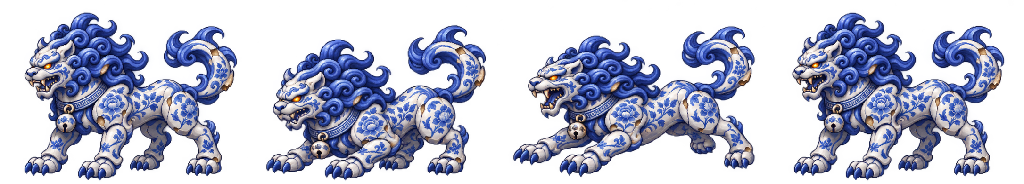
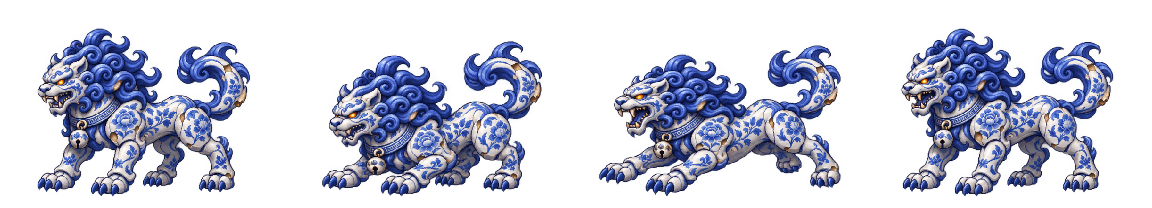
feat: add bridge repair armor and grounded sprite alignment

diff --git a/08-antique-night/game.js b/08-antique-night/game.js
@@ -1,34 +1,34 @@
 'use strict';
 const canvas=document.getElementById('game'),ctx=canvas.getContext('2d'),overlay=document.getElementById('overlay'),title=document.getElementById('title'),story=document.getElementById('story'),go=document.getElementById('go'),objective=document.getElementById('objective');
-const image=(url)=>{let i=new Image;i.src=url;return i};const bg=image('assets/porcelain.webp'), hero=image('assets/hero.png'), beast=image('assets/beast.png'), painter=image('assets/painter.png'),shopArt=image('assets/shop.webp'),platformArt=image('assets/platform.png'),beastWalk=image('assets/beast-walk.png'),heroRun=image('assets/hero-run.png'),painterAttack=image('assets/painter-attack.png'),beastAttack=image('assets/beast-attack.png'),heroAttack=image('assets/hero-attack.png'),customer=image('assets/customer.png'),heroJump=image('assets/hero-jump.png'),heroIdle=image('assets/hero-idle.png'),heroHurt=image('assets/hero-hurt.png'),heroDodge=image('assets/hero-dodge.png'),branches=image('assets/branches.png'),broken=image('assets/broken.png'),fishArt=image('assets/fish.png');const keys={},taps={};let gpPrev=[];
+const image=(url)=>{let i=new Image;i.src=url;return i};const bg=image('assets/porcelain.webp'), hero=image('assets/hero.png'), beast=image('assets/beast.png'), painter=image('assets/painter.png'),shopArt=image('assets/shop.webp'),platformArt=image('assets/platform.png'),beastWalk=image('assets/beast-walk.png'),heroRun=image('assets/hero-run.png'),painterAttack=image('assets/painter-attack.png'),beastAttack=image('assets/beast-attack.png'),heroAttack=image('assets/hero-attack.png'),customer=image('assets/customer.png'),heroJump=image('assets/hero-jump.png'),heroIdle=image('assets/hero-idle.png'),heroHurt=image('assets/hero-hurt.png'),heroDodge=image('assets/hero-dodge.png'),branches=image('assets/branches.png'),broken=image('assets/broken.png'),fishArt=image('assets/fish.png'),bridgeBroken=image('assets/bridge-broken.png'),bridgeFixed=image('assets/bridge-repaired.png'),bridgeShard=image('assets/bridge-shard.png');const keys={},taps={};let gpPrev=[];
 const map={a:'left',ArrowLeft:'left',d:'right',ArrowRight:'right',w:'jump',ArrowUp:'jump',' ':'jump',j:'attack',k:'heavy',Shift:'dash',e:'interact',m:'mute',n:'new',Enter:'confirm',Escape:'pause'};
 function inputKey(e){return e.key.length===1?e.key.toLowerCase():e.key}
 window.addEventListener('keydown',e=>{if(typeof GameAudio!=='undefined')GameAudio.unlock();let k=map[inputKey(e)];if(k){e.preventDefault();if(!keys[k])taps[k]=true;keys[k]=true}});window.addEventListener('keyup',e=>{let k=map[inputKey(e)];if(k){e.preventDefault();keys[k]=false}});window.addEventListener('blur',()=>{for(let k in keys)keys[k]=false;for(let k in taps)delete taps[k]});
-let mode='title',time=0,cam=0,fx=[],projectiles=[],notice='',noticeTime=0,dialogue=0,fragments=0,checkpoint=0,repairStep=0,boss=null,enemies=[],fish=[],shards=[],player;
-const floors=[{x:0,y:446,w:700},{x:770,y:446,w:570},{x:1410,y:446,w:490},{x:1980,y:446,w:610},{x:2670,y:446,w:950}],ledges=[{x:525,y:350,w:125},{x:935,y:350,w:145},{x:1510,y:345,w:130},{x:2115,y:340,w:130},{x:2440,y:360,w:115}],worldEnd=3620;
+let mode='title',time=0,cam=0,fx=[],projectiles=[],notice='',noticeTime=0,dialogue=0,fragments=0,checkpoint=0,repairStep=0,bridgeDone=false,bridgeProgress=0,boss=null,enemies=[],fish=[],shards=[],player;
+const floors=[{x:0,y:446,w:700},{x:930,y:446,w:410},{x:1410,y:446,w:490},{x:1980,y:446,w:610},{x:2670,y:446,w:950}],ledges=[{x:525,y:350,w:125},{x:935,y:350,w:145},{x:1510,y:345,w:130},{x:2115,y:340,w:130},{x:2440,y:360,w:115}],worldEnd=3620;
 function popup(s,d=160){notice=s;noticeTime=d}function show(t,s,b){title.textContent=t;story.innerHTML=s;go.textContent=b;overlay.classList.remove('hidden')}
 function playerAt(x){return {x,y:365,vy:0,vx:0,w:38,h:78,hp:8,max:8,facing:1,ground:false,inv:0,dash:0,attack:0,heavy:false,cool:0,land:0}}
-function init(){GameAudio.setScene('shop');player=playerAt(90);mode='shop';cam=0;fragments=0;checkpoint=0;repairStep=0;dialogue=0;fx=[];projectiles=[];enemies=[];shards=[];overlay.classList.add('hidden');objective.textContent='任务：走近客人，按 E 对话';popup('雨夜 · 来客',130)}
+function init(){GameAudio.setScene('shop');player=playerAt(90);mode='shop';cam=0;fragments=0;checkpoint=0;repairStep=0;bridgeDone=false;bridgeProgress=0;dialogue=0;fx=[];projectiles=[];enemies=[];shards=[];overlay.classList.add('hidden');objective.textContent='任务：走近客人，按 E 对话';popup('雨夜 · 来客',130)}
 const newgame=document.getElementById('newgame');let pendingSave=AntiqueSave.load(),newRequested=false;
-function saveProgress(){if(!['shop','world','return','repair','win'].includes(mode))return;AntiqueSave.save({stage:mode,shards:[0,1,2].map(i=>!!shards[i]?.taken),checkpoint:checkpoint?1:0,repairStep:Math.min(2,repairStep),dialogue:dialogue?1:0})}
-function restoreGame(saved){init();dialogue=saved.dialogue;checkpoint=saved.checkpoint;shards=saved.shards.map(taken=>({taken}));if(saved.stage==='world'){enterWorld(true)}else if(['return','repair','win'].includes(saved.stage)){mode='return';player=playerAt(570);objective.textContent='回到店里，走近青花瓶按 E 修复';if(saved.stage==='repair'){mode='repair';repairStep=saved.repairStep;objective.textContent='修复青花瓶：指针落入金色区时按 E 或手柄 A'}if(saved.stage==='win'){mode='win';show('一幅未完成的山水','青花瓶已经修复。','再玩一次')}}else if(dialogue){objective.textContent='走近柜台上的青花瓶，按 E 检查';saveProgress()}}
+function saveProgress(){if(!['shop','world','return','repair','win'].includes(mode))return;AntiqueSave.save({stage:mode,shards:[0,1,2].map(i=>!!shards[i]?.taken),checkpoint:checkpoint?1:0,repairStep:Math.min(2,repairStep),dialogue:dialogue?1:0,bridge:bridgeDone})}
+function restoreGame(saved){init();dialogue=saved.dialogue;checkpoint=saved.checkpoint;bridgeDone=!!saved.bridge;shards=saved.shards.map(taken=>({taken}));if(saved.stage==='world'){enterWorld(true)}else if(['return','repair','win'].includes(saved.stage)){mode='return';player=playerAt(570);objective.textContent='回到店里，走近青花瓶按 E 修复';if(saved.stage==='repair'){mode='repair';repairStep=saved.repairStep;objective.textContent='修复青花瓶：指针落入金色区时按 E 或手柄 A'}if(saved.stage==='win'){mode='win';show('一幅未完成的山水','青花瓶已经修复。','再玩一次')}}else if(dialogue){objective.textContent='走近柜台上的青花瓶，按 E 检查';saveProgress()}}
 if(pendingSave&&pendingSave.stage!=='win'){go.textContent='继续游戏';if(newgame){newgame.style.display='inline-block';newgame.textContent='重新开始（N / Y）'}}
 if(newgame)newgame.onclick=()=>{if(!pendingSave)return;if(!newRequested){newRequested=true;newgame.textContent='再次按 N / Y 确认覆盖';return}AntiqueSave.clear();pendingSave=null;newRequested=false;newgame.style.display='none';GameAudio.unlock();init();saveProgress()};
 go.onclick=()=>{GameAudio.unlock();if(mode==='title'){let saved=pendingSave;pendingSave=null;newRequested=false;if(newgame)newgame.style.display='none';if(saved&&saved.stage!=='win')restoreGame(saved);else{init();saveProgress()}}else if(mode==='win'){pendingSave=null;AntiqueSave.clear();init();saveProgress()}else if(mode==='dead'){enterWorld(true)}else if(mode==='pause'){mode=window.lastMode;GameAudio.resume();overlay.classList.add('hidden')}};
-function enterWorld(retry=false){GameAudio.setScene('world');const saved=retry?shards.map(s=>s.taken):[false,false,false];mode='world';overlay.classList.add('hidden');player=playerAt(retry&&checkpoint?1980:60);cam=0;projectiles=[];fx=[];shards=[{x:1040,y:315,taken:!!saved[0]},{x:1600,y:305,taken:!!saved[1]},{x:2475,y:320,taken:!!saved[2]}];fragments=shards.filter(s=>s.taken).length;enemies=[{x:400,hp:3,type:0},{x:1120,hp:3,type:0},{x:1750,hp:4,type:1},{x:2260,hp:4,type:1}].map(e=>({...e,y:404,dir:-1,cd:0,stun:0,alive:true}));if(checkpoint)enemies.forEach(e=>{if(e.x<1900)e.alive=false});fish=[{x:1260,base:1260,y:328,hp:3,alive:true,combatHeight:35,stun:0,dir:-1},{x:2400,base:2400,y:305,hp:3,alive:true,combatHeight:35,stun:0,dir:-1}];boss={x:3300,y:355,hp:28,max:28,cd:110,stun:0,alive:true,phase:0};objective.textContent='寻找三片青花碎片，深入瓶中的画卷';popup('瓶中世界 · 青花山水',160);saveProgress()}
+function enterWorld(retry=false){GameAudio.setScene('world');const saved=retry?shards.map(s=>s.taken):[false,false,false];mode='world';overlay.classList.add('hidden');player=playerAt(retry&&checkpoint?1980:60);cam=0;projectiles=[];fx=[];shards=[{x:1040,y:315,taken:!!saved[0]},{x:1600,y:305,taken:!!saved[1]},{x:2475,y:320,taken:!!saved[2]}];fragments=shards.filter(s=>s.taken).length;enemies=[{x:400,hp:3,type:0},{x:1120,hp:3,type:0},{x:1750,hp:4,type:1},{x:2260,hp:4,type:1}].map(e=>({...e,y:404,dir:-1,cd:0,stun:0,alive:true,armor:e.type?2:0}));if(checkpoint)enemies.forEach(e=>{if(e.x<1900)e.alive=false});fish=[{x:1260,base:1260,y:328,hp:3,alive:true,combatHeight:35,stun:0,dir:-1},{x:2400,base:2400,y:305,hp:3,alive:true,combatHeight:35,stun:0,dir:-1}];boss={x:3300,y:355,hp:28,max:28,cd:110,stun:0,alive:true,phase:0};objective.textContent='寻找三片青花碎片，深入瓶中的画卷';popup('瓶中世界 · 青花山水',160);saveProgress()}
 function interact(){GameAudio.play('interact');if(mode==='shop'){if(dialogue===0&&Math.abs(player.x-817)<90){dialogue=1;popup('客人：这瓶子每晚都传来水声……请你看看。',240);objective.textContent='走近柜台上的青花瓶，按 E 检查';saveProgress()}else if(dialogue===1&&Math.abs(player.x-665)<90){enterWorld()}}else if(mode==='return'&&Math.abs(player.x-665)<90){mode='repair';repairStep=0;objective.textContent='修复青花瓶：指针落入金色区时按 E 或手柄 A';popup('对准裂纹，依次拼回三片瓷片',160);saveProgress()}}
 function particle(x,y,color,n=8){for(let i=0;i<n;i++)fx.push({x,y,vx:(Math.random()-.5)*5,vy:-Math.random()*5,life:20+Math.random()*20,color})}
 function hurt(d=1){if(player.inv||player.dash||mode!=='world')return;PlayerCombat.cancel(player);player.hp-=d;GameAudio.play('hurt');player.inv=80;player.vy=-5;player.vx=-player.facing*4;particle(player.x,player.y+35,'#eec3a4');if(player.hp<=0){mode='dead';show('画卷沉入水中','马楠被瓶中水流送回了入口。<br>已激活的落脚点会保留。','重新进入')}}
-function hitTarget(e,heavy){if(e===boss&&fragments<3){popup('画师被裂纹封住：先找齐三块青花碎片',120);return}e.hp-=heavy?3:1;GameAudio.play('hit');e.stun=heavy?28:14;if(e!==boss)e.x+=player.facing*(heavy?22:9);particle(e.x,e.y+20,'#dcecf0',heavy?14:7);if(e.hp<=0){e.alive=false;particle(e.x,e.y+20,'#dfc080',30);if(e===boss){mode='return';GameAudio.setScene('shop');player=playerAt(220);cam=0;objective.textContent='回到店里，走近青花瓶按 E 修复';popup('画师停下笔。带着碎片回到店里。',220);saveProgress()}}}
-function poll(){let g=Array.from(navigator.getGamepads?.()||[]).find(Boolean);if(!g){gpPrev=[];return {axis:0}};let b=g.buttons;let mapping={jump:0,dash:1,attack:2,heavy:3,new:3,interact:0,pause:9};for(let k in mapping){let n=mapping[k],v=!!b[n]?.pressed;if(v&&!gpPrev[n])taps[k]=true}gpPrev=Array.from(b,v=>v.pressed);return {axis:g.axes[0]||0}}
+function hitTarget(e,heavy){if(e.armor>0){if(!heavy){GameAudio.play('hit');particle(e.x,e.y+18,'#d9b878',7);popup('金边护甲挡住轻击：用木槌重击',90);return}e.armor--;e.stun=28;GameAudio.play('heavy');particle(e.x,e.y+18,'#ffdf91',15);popup(e.armor?'护甲出现裂纹，再重击一次':'护甲已破，可以攻击',90);return}if(e===boss&&fragments<3){popup('画师被裂纹封住：先找齐三块青花碎片',120);return}e.hp-=heavy?3:1;GameAudio.play('hit');e.stun=heavy?28:14;if(e!==boss)e.x+=player.facing*(heavy?22:9);particle(e.x,e.y+20,'#dcecf0',heavy?14:7);if(e.hp<=0){e.alive=false;particle(e.x,e.y+20,'#dfc080',30);if(e===boss){mode='return';GameAudio.setScene('shop');player=playerAt(220);cam=0;objective.textContent='回到店里，走近青花瓶按 E 修复';popup('画师停下笔。带着碎片回到店里。',220);saveProgress()}}}
+function poll(){let g=Array.from(navigator.getGamepads?.()||[]).find(Boolean);if(!g){gpPrev=[];return {axis:0}};let b=g.buttons;let mapping={jump:0,dash:1,attack:2,heavy:3,new:3,interact:0,pause:9};for(let k in mapping){let n=mapping[k],v=!!b[n]?.pressed;if(v&&!gpPrev[n])taps[k]=true}gpPrev=Array.from(b,v=>v.pressed);return {axis:g.axes[0]||0,holdInteract:!!b[0]?.pressed}}
 function update(){time++;let gamepad=poll();if(mode==='title'&&taps.new&&pendingSave&&newgame){newgame.click();for(let k in taps)delete taps[k];return}if(mode==='repair'){if(taps.pause){window.lastMode='repair';mode='pause';GameAudio.pause();show('暂歇片刻','按 ESC 或手柄菜单键继续。','继续游戏');for(let k in taps)delete taps[k];return}if(taps.mute){GameAudio.setMuted(!GameAudio.isMuted());popup(GameAudio.isMuted()?'声音已关闭':'声音已开启',90)}if(noticeTime)noticeTime--;if(taps.interact||taps.jump||taps.confirm){let pos=Math.sin(time*.055);if(Math.abs(pos)<.32){repairStep++;GameAudio.play('collect');if(repairStep<3)saveProgress();particle(480,270,'#f6d18f',16);if(repairStep>=3){mode='win';GameAudio.play('win');GameAudio.setScene('quiet');show('一幅未完成的山水','马楠将碎片细细归位，补好瓶身最后一道裂痕。<br>画师留下的山水终于完整，瓶中水声也随着晨光安静下来。<br><br>第一章 · 完','再玩一次');objective.textContent='青花瓶修复完成';saveProgress()}else popup('修好 '+repairStep+' / 3 处裂纹',90)}else popup('还没对齐，再试一次',75)}for(let k in taps)delete taps[k];return}if(taps.mute){GameAudio.setMuted(!GameAudio.isMuted());popup(GameAudio.isMuted()?'声音已关闭':'声音已开启',90)}if((taps.confirm||taps.jump)&&['title','dead','win'].includes(mode)){go.click();for(let k in taps)delete taps[k];return}if(taps.pause&&['shop','world','return','pause'].includes(mode)){if(mode==='pause'){mode=window.lastMode;GameAudio.resume();overlay.classList.add('hidden')}else{window.lastMode=mode;mode='pause';GameAudio.pause();show('暂歇片刻','按 ESC 或手柄菜单键继续。','继续游戏')}}if(!['shop','world','return'].includes(mode)){for(let k in taps)delete taps[k];return}if(taps.interact)interact();if(!['shop','world','return'].includes(mode)){for(let k in taps)delete taps[k];return}
 let axis=(keys.right?1:0)-(keys.left?1:0);if(Math.abs(gamepad.axis)>.22)axis=gamepad.axis;if(Math.abs(axis)>.1){player.facing=Math.sign(axis);player.vx+=(axis*3.8-player.vx)*.25}else player.vx*=.75;
-if(mode==='world'){if(taps.jump&&player.ground){player.vy=-12.8;player.ground=false;GameAudio.play('jump');particle(player.x,player.y+player.h,'#e6edf0',5)}PlayerCombat.update(player,{attack:!!taps.attack,heavy:!!taps.heavy,dash:!!taps.dash},{targets:[...enemies,...fish,boss],onHit:hitTarget,onAttack:t=>GameAudio.play(t==='heavy'?'heavy':'attack'),onDodge:()=>GameAudio.play('dash'),onDashTick:()=>{if(time%3===0)particle(player.x,player.y+50,'#a9ccdf',2)}});if(mode!=='world'){for(let k in taps)delete taps[k];return}}
-player.x=Math.max(20,Math.min(mode==='world'?worldEnd-20:920,player.x+player.vx));let oldBottom=player.y+player.h;player.vy=Math.min(13,player.vy+.55);player.y+=player.vy;player.ground=false;let platforms=mode==='world'?[...floors,...ledges]:[{x:0,y:445,w:960}];for(let a of platforms)if(player.vy>=0&&player.x+player.w/2>a.x&&player.x-player.w/2<a.x+a.w&&oldBottom<=a.y+5&&player.y+player.h>=a.y){if(player.vy>5)particle(player.x,a.y,'#dce9e7',5);player.y=a.y-player.h;player.vy=0;player.ground=true;break}if(player.y>600){player.hp--;if(player.hp<=0){mode='dead';show('坠入裂隙','瓷片落入了画卷深处。','重新进入')}else{player.x=checkpoint?2010:60;player.y=330;player.vy=0;player.inv=100;popup('跌入裂隙，返回落脚点')}}player.inv=Math.max(0,player.inv-1);
-if(mode==='world'){cam+=((Math.max(0,Math.min(worldEnd-960,player.x-300)))-cam)*.1;for(let s of shards)if(!s.taken&&Math.abs(player.x-s.x)<34&&Math.abs(player.y+38-s.y)<62){s.taken=true;fragments++;GameAudio.play('collect');particle(s.x,s.y,'#ffdf91',18);popup('获得青花碎片 '+fragments+' / 3');saveProgress();}if(player.x>1950&&!checkpoint){checkpoint=1;player.hp=player.max;particle(player.x,player.y+25,'#f3d99d',20);popup('发现落脚点 · 生命已恢复');saveProgress();}for(const f of fish){if(!f.alive)continue;if(f.stun>0)f.stun--;else{let next=f.base+Math.sin(time/60)*75;f.dir=next<f.x?-1:1;f.x=next;f.y=315+Math.sin(time/28+f.base)*18}if(Math.abs(player.x-f.x)<33&&player.y<f.y+35&&player.y+player.h>f.y)hurt()}if(player.x>2800)GameAudio.setScene('boss');AntiqueCombat.update({player,enemies,boss,projectiles,floors,camera:cam,hurt,particle});}else cam=0;
+if(mode==='world'){let nearBridge=!bridgeDone&&player.x>620&&player.x<710&&player.ground;if(nearBridge&&(keys.interact||gamepad.holdInteract)&&Math.abs(axis)<.2&&!player.inv&&!player.attack){bridgeProgress=Math.min(90,bridgeProgress+1);player.vx=0;if(bridgeProgress===90){bridgeDone=true;GameAudio.play('collect');particle(815,430,'#ffdf91',30);popup('瓷桥已修复，前路打开',150);objective.textContent='跨过瓷桥，寻找瓶中的三片青花碎片';saveProgress()}}else if(!bridgeDone)bridgeProgress=Math.max(0,bridgeProgress-2);if(taps.jump&&player.ground&&!(nearBridge&&gamepad.holdInteract)){player.vy=-12.8;player.ground=false;GameAudio.play('jump');particle(player.x,player.y+player.h,'#e6edf0',5)}PlayerCombat.update(player,{attack:!!taps.attack,heavy:!!taps.heavy,dash:!!taps.dash},{targets:[...enemies,...fish,boss],onHit:hitTarget,onAttack:t=>GameAudio.play(t==='heavy'?'heavy':'attack'),onDodge:()=>GameAudio.play('dash'),onDashTick:()=>{if(time%3===0)particle(player.x,player.y+50,'#a9ccdf',2)}});if(mode!=='world'){for(let k in taps)delete taps[k];return}}
+player.x=Math.max(20,Math.min(mode==='world'?worldEnd-20:920,player.x+player.vx));let oldBottom=player.y+player.h;player.vy=Math.min(13,player.vy+.55);player.y+=player.vy;player.ground=false;let platforms=mode==='world'?[...floors,...ledges,...(bridgeDone?[{x:700,y:446,w:230}]:[])]:[{x:0,y:445,w:960}];for(let a of platforms)if(player.vy>=0&&player.x+player.w/2>a.x&&player.x-player.w/2<a.x+a.w&&oldBottom<=a.y+5&&player.y+player.h>=a.y){if(player.vy>5)particle(player.x,a.y,'#dce9e7',5);player.y=a.y-player.h;player.vy=0;player.ground=true;break}if(player.y>600){player.hp--;if(player.hp<=0){mode='dead';show('坠入裂隙','瓷片落入了画卷深处。','重新进入')}else{player.x=checkpoint?2010:60;player.y=330;player.vy=0;player.inv=100;popup('跌入裂隙，返回落脚点')}}player.inv=Math.max(0,player.inv-1);
+if(mode==='world'){cam+=((Math.max(0,Math.min(worldEnd-960,player.x-300)))-cam)*.1;for(let s of shards)if(!s.taken&&Math.abs(player.x-s.x)<34&&Math.abs(player.y+38-s.y)<62){s.taken=true;fragments++;GameAudio.play('collect');particle(s.x,s.y,'#ffdf91',18);popup('获得青花碎片 '+fragments+' / 3');saveProgress();}if(player.x>1950&&!checkpoint){checkpoint=1;player.hp=player.max;particle(player.x,player.y+25,'#f3d99d',20);popup('发现落脚点 · 生命已恢复');saveProgress();}if(player.x>2800)GameAudio.setScene('boss');AntiqueCombat.update({player,enemies,fish,boss,projectiles,floors,camera:cam,hurt,particle});}else cam=0;
 for(let q of fx){q.x+=q.vx;q.y+=q.vy;q.vy+=.1;q.life--}fx=fx.filter(q=>q.life>0);if(noticeTime)noticeTime--;for(let k in taps)delete taps[k]}
 function rect(x,y,w,h,c){ctx.fillStyle=c;ctx.fillRect(x,y,w,h)}function drawShop(){if(shopArt.complete&&shopArt.naturalWidth)ctx.drawImage(shopArt,0,0,960,540);else rect(0,0,960,540,'#3d2930');if(customer.complete&&customer.naturalWidth)ctx.drawImage(customer,770,342,90,108);else{rect(800,335,35,70,'#6f4855');ctx.fillStyle='#d4b99c';ctx.beginPath();ctx.arc(817,322,15,0,7);ctx.fill()}ctx.fillStyle='#f4e0ad';ctx.font='16px sans-serif';ctx.fillText(dialogue===0?'客人 · E 交谈':'客人',775,290);ctx.fillText(dialogue>0||mode==='return'?'青花瓶 · E 互动':'青花瓶',610,260)}
 function platform(a){if(platformArt.complete&&platformArt.naturalWidth){ctx.drawImage(platformArt,a.x,a.y,a.w,Math.min(85,a.w*.2));return}rect(a.x,a.y,a.w,14,'#e7e7d8');rect(a.x,a.y+14,a.w,13,'#244f83');rect(a.x,a.y+27,a.w,24,'#b5d0d7');for(let i=8;i<a.w-15;i+=32){ctx.strokeStyle='#4378a1';ctx.lineWidth=2;ctx.strokeRect(a.x+i,a.y+30,20,16);ctx.beginPath();ctx.arc(a.x+i+10,a.y+38,5,0,7);ctx.stroke()}ctx.strokeStyle='#d7ae72';ctx.lineWidth=2;ctx.beginPath();ctx.moveTo(a.x,a.y);ctx.lineTo(a.x+a.w,a.y);ctx.stroke()}
-function drawWorld(){if(bg.complete&&bg.naturalWidth){ctx.drawImage(bg,0,0,960,540)}else{rect(0,0,960,540,'#435f83')}rect(0,0,960,540,'#1533554a');ctx.save();ctx.translate(-Math.floor(cam),0);for(let a of [...floors,...ledges])platform(a);if(broken.complete&&broken.naturalWidth)for(const f of floors.slice(0,-1))ctx.drawImage(broken,f.x+f.w-180,f.y,215,38);for(let s of shards)if(!s.taken){let bob=Math.sin(time/18)*5;ctx.save();ctx.translate(s.x,s.y+bob);ctx.rotate(Math.PI/4);rect(-9,-9,18,18,'#fbf2d9');rect(-3,-9,6,18,'#3977ae');ctx.restore();ctx.fillStyle='#fff0a2';ctx.font='13px sans-serif';ctx.fillText('✦',s.x-6,s.y-22+bob)}for(let e of enemies)if(e.alive){ctx.save();ctx.translate(e.x,e.y+40);ctx.scale(e.dir===1?-1:1,1);if(beastWalk.complete&&beastWalk.naturalWidth){let state=e.ai?.state;let active=['windup','lunge','recover'].includes(state)&&beastAttack.complete&&beastAttack.naturalWidth;let sheet=active?beastAttack:beastWalk;let f=active?(state==='windup'?1:state==='lunge'?2:3):Math.floor(time/8)%4;ctx.drawImage(sheet,f*256,0,256,184,-48,-70,96,70)}else if(beast.complete&&beast.naturalWidth)ctx.drawImage(beast,-45,-76,90,76);else{rect(-20,-40,40,40,'#d5e7e8')}ctx.restore();rect(e.x-25,e.y-12,50,4,'#13213a');rect(e.x-25,e.y-12,50*e.hp/(e.type?4:3),4,'#e8c990')}for(const f of fish)if(f.alive&&fishArt.complete&&fishArt.naturalWidth){ctx.save();ctx.translate(f.x,f.y+35);ctx.scale(f.dir===1?-1:1,1);ctx.drawImage(fishArt,(Math.floor(time/8)%4)*256,0,256,165,-40,-50,80,52);ctx.restore()}if(boss?.alive){ctx.save();ctx.translate(boss.x,boss.y+91);if(painterAttack.complete&&painterAttack.naturalWidth){let state=boss.ai?.state;let frame=state==='windup'?1:state==='brush-active'?2:0;ctx.drawImage(painterAttack,frame*256,0,256,193,-105,-158,210,158)}else if(painter.complete&&painter.naturalWidth)ctx.drawImage(painter,-125,-170,250,170);else rect(-30,-105,60,105,'#112949');ctx.fillStyle='#c9e6ef';ctx.font='14px sans-serif';ctx.fillText('瓶中画师',-34,-150);ctx.restore()}AntiqueCombat.draw(ctx,{enemies,boss,projectiles},time);ctx.restore();if(branches.complete&&branches.naturalWidth){ctx.globalAlpha=.8;ctx.drawImage(branches,-15,270,90,260);ctx.save();ctx.translate(960,0);ctx.scale(-1,1);ctx.drawImage(branches,-15,270,90,260);ctx.restore();ctx.globalAlpha=1}}
-function draw(){ctx.clearRect(0,0,960,540);if(mode==='title')drawWorld();else if(mode==='shop'||mode==='return'||mode==='repair'||(mode==='pause'&&window.lastMode!=='world')||mode==='win')drawShop();else drawWorld();if(mode==='repair'){rect(160,100,640,350,'#101d31ed');ctx.fillStyle='#e6dfd0';ctx.textAlign='center';ctx.font='26px serif';ctx.fillText('修复青花瓶',480,150);ctx.font='16px sans-serif';ctx.fillText('在指针经过金色区域时按 E / A',480,185);ctx.fillText('已修复 '+repairStep+' / 3 处',480,225);rect(240,300,480,16,'#526e86');rect(403,296,154,24,'#cda968');rect(480+Math.sin(time*.055)*235-3,286,6,44,'#f9f6e8');ctx.textAlign='start';if(noticeTime){ctx.textAlign='center';ctx.fillStyle='#fff';ctx.fillText(notice,480,377);ctx.textAlign='start'}return}if(player&&mode!=='title'){ctx.save();ctx.translate(player.x-cam,player.y+player.h);ctx.scale(player.facing,1);if(!player.inv||time%8<5){if(player.dash&&heroDodge.complete&&heroDodge.naturalWidth){let f=Math.min(3,Math.floor((12-player.dash)/3));ctx.drawImage(heroDodge,f*193,0,193,217,-44,-83,88,98)}else if(player.inv>45&&heroHurt.complete&&heroHurt.naturalWidth){let f=Math.min(3,Math.floor((80-player.inv)/7));ctx.drawImage(heroHurt,Math.max(0,f)*129,0,129,217,-29,-83,58,98)}else if(player.attack&&heroAttack.complete&&heroAttack.naturalWidth){let a=player.combat?.action,sp=a&&PlayerCombat.SPECS[a.type];let frame=!a?0:a.frame<=sp.startup?1:a.frame<=sp.startup+sp.active?2:3;ctx.drawImage(heroAttack,frame*129,0,129,217,-29,-83,58,98)}else if(!player.ground&&heroJump.complete&&heroJump.naturalWidth){let f=player.vy < -3?1:player.vy>3?3:2;ctx.drawImage(heroJump,f*129,0,129,217,-29,-83,58,98)}else if(player.ground&&Math.abs(player.vx)>1&&heroRun.complete&&heroRun.naturalWidth){let f=Math.floor(time/7)%6;ctx.drawImage(heroRun,f*129,0,129,217,-29,-83,58,98)}else if(heroIdle.complete&&heroIdle.naturalWidth){let f=Math.floor(time/24)%4;ctx.drawImage(heroIdle,f*129,0,129,217,-29,-83,58,98)}else if(hero.complete&&hero.naturalWidth)ctx.drawImage(hero,-47,-94,94,94);else{rect(-12,-70,24,70,'#d5d1c0')}}if(player.combat?.action&&player.combat.action.frame>PlayerCombat.SPECS[player.combat.action.type].startup&&player.combat.action.frame<=PlayerCombat.SPECS[player.combat.action.type].startup+PlayerCombat.SPECS[player.combat.action.type].active){ctx.strokeStyle=player.heavy?'#ffdb8e':'#d4f0f6';ctx.lineWidth=player.heavy?8:5;ctx.beginPath();ctx.arc(12,-47,player.heavy?64:48,-1.1,.8);ctx.stroke()}ctx.restore();ctx.save();ctx.translate(-cam,0);for(let q of fx){ctx.globalAlpha=Math.min(1,q.life/15);rect(q.x,q.y,3,3,q.color)}ctx.restore();ctx.globalAlpha=1;rect(16,16,245,66,'#0b1b32d9');ctx.fillStyle='#f1e1bd';ctx.font='16px sans-serif';ctx.fillText('马楠',29,38);ctx.fillStyle='#d47971';for(let i=0;i<player.max;i++)ctx.fillText(i<player.hp?'◆':'◇',29+i*24,64);if(mode==='world'||(mode==='pause'&&window.lastMode==='world')){ctx.fillStyle='#e9eff1';ctx.fillText('青花碎片  '+fragments+' / 3',710,42);if(boss?.alive&&player.x>2800){rect(280,18,395,45,'#0d2039dd');ctx.fillStyle='#eee6d6';ctx.fillText(fragments<3?'瓶中画师 · 护罩未解除':'瓶中画师',295,37);rect(295,48,360,7,'#42617b');rect(295,48,360*boss.hp/boss.max,7,'#d8b27c')}}if(noticeTime){ctx.font='16px sans-serif';let w=ctx.measureText(notice).width+40;rect((960-w)/2,480,w,38,'#0a1c32de');ctx.fillStyle='#f4e7ca';ctx.fillText(notice,(960-w)/2+20,505)}}}
+function drawWorld(){if(bg.complete&&bg.naturalWidth){ctx.drawImage(bg,0,0,960,540)}else{rect(0,0,960,540,'#435f83')}rect(0,0,960,540,'#1533554a');ctx.save();ctx.translate(-Math.floor(cam),0);for(let a of [...floors,...ledges])platform(a);const bridgeImage=bridgeDone?bridgeFixed:bridgeBroken;if(bridgeImage.complete&&bridgeImage.naturalWidth)ctx.drawImage(bridgeImage,bridgeDone?700:620,446,bridgeDone?230:120,40);else if(bridgeDone)platform({x:700,y:446,w:230});if(!bridgeDone&&bridgeShard.complete&&bridgeShard.naturalWidth)ctx.drawImage(bridgeShard,651,386+Math.sin(time/15)*3,44,30);if(!bridgeDone&&player&&player.x>590&&player.x<740){ctx.fillStyle='#fff1cc';ctx.font='15px sans-serif';ctx.fillText('长按 E / A 修复瓷桥',600,365);rect(620,374,125,7,'#18304c');rect(620,374,125*bridgeProgress/90,7,'#e5c582')}if(broken.complete&&broken.naturalWidth)for(const f of floors.slice(0,-1))ctx.drawImage(broken,f.x+f.w-180,f.y,215,38);for(let s of shards)if(!s.taken){let bob=Math.sin(time/18)*5;ctx.save();ctx.translate(s.x,s.y+bob);ctx.rotate(Math.PI/4);rect(-9,-9,18,18,'#fbf2d9');rect(-3,-9,6,18,'#3977ae');ctx.restore();ctx.fillStyle='#fff0a2';ctx.font='13px sans-serif';ctx.fillText('✦',s.x-6,s.y-22+bob)}for(let e of enemies)if(e.alive){ctx.save();ctx.translate(e.x,e.y+42);ctx.scale(e.dir===1?-1:1,1);if(beastWalk.complete&&beastWalk.naturalWidth){let state=e.ai?.state;let active=['windup','lunge','recover'].includes(state)&&beastAttack.complete&&beastAttack.naturalWidth;let sheet=active?beastAttack:beastWalk;let f=active?(state==='windup'?1:state==='lunge'?2:3):Math.floor(time/8)%4;ctx.drawImage(sheet,f*288,0,288,208,-55,-75.38,110,80)}else if(beast.complete&&beast.naturalWidth)ctx.drawImage(beast,-45,-76,90,76);else{rect(-20,-40,40,40,'#d5e7e8')}ctx.restore();if(e.armor>0){ctx.strokeStyle='#e6be7d';ctx.lineWidth=2;ctx.beginPath();ctx.arc(e.x,e.y+18,31,3.5,5.9);ctx.stroke()}rect(e.x-25,e.y-12,50,4,'#13213a');rect(e.x-25,e.y-12,50*e.hp/(e.type?4:3),4,'#e8c990')}for(const f of fish)if(f.alive&&fishArt.complete&&fishArt.naturalWidth){ctx.save();ctx.translate(f.x,f.y+35);ctx.scale(f.dir===1?-1:1,1);ctx.drawImage(fishArt,(Math.floor(time/8)%4)*256,0,256,165,-40,-50,80,52);ctx.restore()}if(boss?.alive){ctx.save();ctx.translate(boss.x,boss.y+95);if(painterAttack.complete&&painterAttack.naturalWidth){let state=boss.ai?.state;let frame=state==='windup'?1:state==='brush-active'?2:0;ctx.drawImage(painterAttack,frame*256,0,256,193,-105,-158,210,158)}else if(painter.complete&&painter.naturalWidth)ctx.drawImage(painter,-125,-170,250,170);else rect(-30,-105,60,105,'#112949');ctx.fillStyle='#c9e6ef';ctx.font='14px sans-serif';ctx.fillText('瓶中画师',-34,-150);ctx.restore()}AntiqueCombat.draw(ctx,{enemies,fish,boss,projectiles},time);ctx.restore();if(branches.complete&&branches.naturalWidth){ctx.globalAlpha=.8;ctx.drawImage(branches,-15,270,90,260);ctx.save();ctx.translate(960,0);ctx.scale(-1,1);ctx.drawImage(branches,-15,270,90,260);ctx.restore();ctx.globalAlpha=1}}
+function draw(){ctx.clearRect(0,0,960,540);if(mode==='title')drawWorld();else if(mode==='shop'||mode==='return'||mode==='repair'||(mode==='pause'&&window.lastMode!=='world')||mode==='win')drawShop();else drawWorld();if(mode==='repair'){rect(160,100,640,350,'#101d31ed');ctx.fillStyle='#e6dfd0';ctx.textAlign='center';ctx.font='26px serif';ctx.fillText('修复青花瓶',480,150);ctx.font='16px sans-serif';ctx.fillText('在指针经过金色区域时按 E / A',480,185);ctx.fillText('已修复 '+repairStep+' / 3 处',480,225);rect(240,300,480,16,'#526e86');rect(403,296,154,24,'#cda968');rect(480+Math.sin(time*.055)*235-3,286,6,44,'#f9f6e8');ctx.textAlign='start';if(noticeTime){ctx.textAlign='center';ctx.fillStyle='#fff';ctx.fillText(notice,480,377);ctx.textAlign='start'}return}if(player&&mode!=='title'){ctx.save();ctx.translate(player.x-cam,player.y+player.h);ctx.scale(player.facing,1);if(!player.inv||time%8<5){if(player.dash&&heroDodge.complete&&heroDodge.naturalWidth){let f=Math.min(3,Math.floor((12-player.dash)/3));ctx.drawImage(heroDodge,f*193,0,193,217,-44,-91.22,88,98)}else if(player.inv>45&&heroHurt.complete&&heroHurt.naturalWidth){let f=Math.min(3,Math.floor((80-player.inv)/7));ctx.drawImage(heroHurt,Math.max(0,f)*129,0,129,217,-29,-91.22,58,98)}else if(player.attack&&heroAttack.complete&&heroAttack.naturalWidth){let a=player.combat?.action,sp=a&&PlayerCombat.SPECS[a.type];let frame=!a?0:a.frame<=sp.startup?1:a.frame<=sp.startup+sp.active?2:3;ctx.drawImage(heroAttack,frame*129,0,129,217,-29,-91.22,58,98)}else if(!player.ground&&heroJump.complete&&heroJump.naturalWidth){let f=player.vy < -3?1:player.vy>3?3:2;ctx.drawImage(heroJump,f*129,0,129,217,-29,-91.22,58,98)}else if(player.ground&&Math.abs(player.vx)>1&&heroRun.complete&&heroRun.naturalWidth){let f=Math.floor(time/7)%6;ctx.drawImage(heroRun,f*129,0,129,217,-29,-91.22,58,98)}else if(heroIdle.complete&&heroIdle.naturalWidth){let f=Math.floor(time/24)%4;ctx.drawImage(heroIdle,f*129,0,129,217,-29,-91.22,58,98)}else if(hero.complete&&hero.naturalWidth)ctx.drawImage(hero,-47,-94,94,94);else{rect(-12,-70,24,70,'#d5d1c0')}}if(player.combat?.action&&player.combat.action.frame>PlayerCombat.SPECS[player.combat.action.type].startup&&player.combat.action.frame<=PlayerCombat.SPECS[player.combat.action.type].startup+PlayerCombat.SPECS[player.combat.action.type].active){ctx.strokeStyle=player.heavy?'#ffdb8e':'#d4f0f6';ctx.lineWidth=player.heavy?8:5;ctx.beginPath();ctx.arc(12,-47,player.heavy?64:48,-1.1,.8);ctx.stroke()}ctx.restore();ctx.save();ctx.translate(-cam,0);for(let q of fx){ctx.globalAlpha=Math.min(1,q.life/15);rect(q.x,q.y,3,3,q.color)}ctx.restore();ctx.globalAlpha=1;rect(16,16,245,66,'#0b1b32d9');ctx.fillStyle='#f1e1bd';ctx.font='16px sans-serif';ctx.fillText('马楠',29,38);ctx.fillStyle='#d47971';for(let i=0;i<player.max;i++)ctx.fillText(i<player.hp?'◆':'◇',29+i*24,64);if(mode==='world'||(mode==='pause'&&window.lastMode==='world')){ctx.fillStyle='#e9eff1';ctx.fillText('青花碎片  '+fragments+' / 3',710,42);if(boss?.alive&&player.x>2800){rect(280,18,395,45,'#0d2039dd');ctx.fillStyle='#eee6d6';ctx.fillText(fragments<3?'瓶中画师 · 护罩未解除':'瓶中画师',295,37);rect(295,48,360,7,'#42617b');rect(295,48,360*boss.hp/boss.max,7,'#d8b27c')}}if(noticeTime){ctx.font='16px sans-serif';let w=ctx.measureText(notice).width+40;rect((960-w)/2,480,w,38,'#0a1c32de');ctx.fillStyle='#f4e7ca';ctx.fillText(notice,(960-w)/2+20,505)}}}
 let previous=0,acc=0;function loop(ts){acc+=Math.min(50,ts-(previous||ts));previous=ts;while(acc>=1000/60){update();acc-=1000/60}draw();requestAnimationFrame(loop)}requestAnimationFrame(loop);

diff --git a/08-antique-night/combat.js b/08-antique-night/combat.js
@@ -54,6 +54,40 @@
       e.x = clamp(e.x + e.dir * (e.type ? 1.2 : 0.85), bounds.min, bounds.max);
     }
   }
+  function updateFish(f, s) {
+    if (!f.alive) return;
+    if (!f.ai) f.ai = {state:'swim', timer:0, t:(f.base || f.x) / 30, baseY:f.y};
+    const a=f.ai, base=f.base === undefined ? f.x : f.base;
+    if (f.stun > 0) {
+      f.stun--;
+      // Interrupt a shot even if the fish was already telegraphing it.
+      a.state='recover'; a.timer=Math.max(a.timer,35);
+      f.x=clamp(f.x,base-90,base+90);
+      return;
+    }
+    a.t++;
+    if (a.state === 'recover') {
+      if (--a.timer <= 0) a.state='swim';
+      return;
+    }
+    if (a.state === 'windup') {
+      if (--a.timer <= 0) {
+        s.projectiles.push({x:f.x+a.facing*25,y:f.y+17,vx:a.facing*3.1,radius:9,kind:'bubble'});
+        a.state='recover'; a.timer=85;
+        if (s.particle) s.particle(f.x+a.facing*25,f.y+17,'#a2e5ed',5);
+      }
+      return;
+    }
+    // Slow horizontal hover distinct from the ground beast's pursuit and lunge.
+    const before=f.x;
+    f.x=base+Math.sin(a.t/65)*58;
+    f.y=a.baseY+Math.sin(a.t/24)*13;
+    f.dir=f.x < before ? -1 : 1;
+    const dx=s.player.x-f.x;
+    if (Math.abs(dx) < 260 && Math.abs(dx)>52 && Math.abs((s.player.y+s.player.h/2)-(f.y+17)) < 100) {
+      a.facing=dx<0?-1:1; f.dir=a.facing; a.state='windup'; a.timer=46;
+    }
+  }
   function updateBoss(s) {
     const b = s.boss;
     if (!b || !b.alive || s.player.x < 2800) return;
@@ -67,15 +101,16 @@
         a.kind = phase2 && a.attacks % 2 ? 'brush' : 'wave';
         a.state = 'windup'; a.timer = a.kind === 'brush' ? 52 : 40;
         a.target = clamp(s.player.x, 2700, 3560);
+        a.facing = s.player.x < b.x ? -1 : 1;
         a.attacks++;
       }
       return;
     }
     if (a.state === 'windup' && --a.timer <= 0) {
       if (a.kind === 'wave') {
-        s.projectiles.push({ x: b.x - 50, y: 408, vx: b.hp <= b.max / 2 ? -5.0 : -4.2, radius: 14, kind: 'ink' });
+        s.projectiles.push({ x: b.x + a.facing * 50, y: 408, vx: a.facing * (b.hp <= b.max / 2 ? 5.0 : 4.2), radius: 14, kind: 'ink' });
         if (b.hp <= b.max / 2) {
-          s.projectiles.push({ x: b.x - 50, y: 328, vx: -4.2, radius: 12, kind: 'ink' });
+          s.projectiles.push({ x: b.x + a.facing * 50, y: 328, vx: a.facing * 4.2, radius: 12, kind: 'ink' });
         }
         a.state = 'recover'; a.timer = b.hp <= b.max / 2 ? 75 : 95;
       } else {
@@ -104,6 +139,7 @@
   }
   function update(s) {
     for (const e of s.enemies) updateEnemy(e, s);
+    for (const f of s.fish || []) updateFish(f, s);
     updateBoss(s);
     updateProjectiles(s);
   }
@@ -117,6 +153,18 @@
       ctx.fillText('!', e.x, e.y - 26);
       ctx.fillStyle = '#ffbd7060'; ctx.fillRect(e.x, e.y + 32, e.ai.facing * 74, 5);
     }
+    for (const f of s.fish || []) {
+      if (!f.alive || !f.ai || f.ai.state !== 'windup') continue;
+      ctx.fillStyle = time % 12 < 6 ? '#d6f7ff' : '#78cfe5';
+      ctx.font = 'bold 19px sans-serif'; ctx.textAlign = 'center'; ctx.fillText('!', f.x, f.y - 18);
+      ctx.strokeStyle = '#b9ecf1aa'; ctx.lineWidth=2; ctx.setLineDash([5,7]); ctx.beginPath();
+      ctx.moveTo(f.x+f.ai.facing*25,f.y+17); ctx.lineTo(f.x+f.ai.facing*155,f.y+17); ctx.stroke(); ctx.setLineDash([]);
+    }
+    // A small halo and shards mark successful interruption without changing sprite art.
+    for (const e of [...s.enemies, ...(s.fish || [])]) if (e.alive && e.stun > 0) {
+      ctx.globalAlpha=.7; ctx.strokeStyle='#edfcff'; ctx.lineWidth=2; ctx.beginPath();
+      ctx.arc(e.x,e.y+18,22,0,Math.PI*2); ctx.stroke(); ctx.globalAlpha=1;
+    }
     const a = s.boss && s.boss.alive && s.boss.ai;
     if (a && a.state === 'windup') {
       ctx.strokeStyle = time % 12 < 6 ? '#ffe6a3' : '#e19d65'; ctx.lineWidth = 3;
@@ -124,7 +172,7 @@
         ctx.fillStyle = '#f5b87255'; ctx.fillRect(a.target - 65, 416, 130, 28);
         ctx.strokeRect(a.target - 65, 416, 130, 28);
       } else {
-        ctx.setLineDash([10, 8]); ctx.beginPath(); ctx.moveTo(s.boss.x - 45, 408); ctx.lineTo(Math.max(0, s.boss.x - 550), 408); if (s.boss.hp <= s.boss.max / 2) { ctx.moveTo(s.boss.x - 45, 328); ctx.lineTo(Math.max(0, s.boss.x - 550), 328); } ctx.stroke(); ctx.setLineDash([]);
+        ctx.setLineDash([10, 8]); ctx.beginPath(); ctx.moveTo(s.boss.x + a.facing * 45, 408); ctx.lineTo(s.boss.x + a.facing * 550, 408); if (s.boss.hp <= s.boss.max / 2) { ctx.moveTo(s.boss.x + a.facing * 45, 328); ctx.lineTo(s.boss.x + a.facing * 550, 328); } ctx.stroke(); ctx.setLineDash([]);
       }
     }
     if (a && a.state === 'brush-active') {
@@ -132,8 +180,8 @@
     }
     for (const b of s.projectiles) {
       const r = b.radius || 12;
-      ctx.fillStyle = '#b4e6ef'; ctx.beginPath(); ctx.arc(b.x, b.y, r, 0, Math.PI * 2); ctx.fill();
-      ctx.fillStyle = '#275f87'; ctx.beginPath(); ctx.arc(b.x, b.y, r * .55, 0, Math.PI * 2); ctx.fill();
+      ctx.fillStyle = b.kind === 'bubble' ? '#d7faff' : '#b4e6ef'; ctx.beginPath(); ctx.arc(b.x, b.y, r, 0, Math.PI * 2); ctx.fill();
+      ctx.fillStyle = b.kind === 'bubble' ? '#60b6d1' : '#275f87'; ctx.beginPath(); ctx.arc(b.x, b.y, r * .55, 0, Math.PI * 2); ctx.fill();
     }
     ctx.restore();
   }

diff --git a/08-antique-night/save.js b/08-antique-night/save.js
@@ -16,9 +16,9 @@
       value.shards.every(v => typeof v === 'boolean') &&
       (value.checkpoint === 0 || value.checkpoint === 1) &&
       Number.isInteger(value.repairStep) && value.repairStep >= 0 && value.repairStep <= 2 &&
-      (value.dialogue === 0 || value.dialogue === 1);
+      (value.dialogue === 0 || value.dialogue === 1) && (value.bridge === undefined || typeof value.bridge === 'boolean');
   }
-  function copy(v) {return {version: VERSION, stage: v.stage, shards: v.shards.slice(), checkpoint: v.checkpoint, repairStep: v.repairStep, dialogue: v.dialogue};}
+  function copy(v) {const out={version: VERSION, stage: v.stage, shards: v.shards.slice(), checkpoint: v.checkpoint, repairStep: v.repairStep, dialogue: v.dialogue}; if(v.bridge!==undefined)out.bridge=v.bridge; return out;}
   function storage(explicit) {
     if (explicit !== undefined) return explicit;
     try {return typeof window !== 'undefined' ? window.localStorage : null;} catch (_) {return null;}

diff --git a/08-antique-night/tests/anchors.test.py b/08-antique-night/tests/anchors.test.py
@@ -1,0 +1,11 @@
+from PIL import Image
+from pathlib import Path
+root=Path(__file__).resolve().parents[1]/'assets'
+for n,w,frames,anchor in [('beast-walk.png',288,4,196),('beast-attack.png',288,4,196),('hero-idle.png',129,4,202),('hero-run.png',129,6,202),('hero-jump.png',129,4,202),('hero-attack.png',129,4,202),('hero-hurt.png',129,4,202),('hero-dodge.png',193,4,202)]:
+    im=Image.open(root/n).convert('RGBA')
+    assert im.width==w*frames, (n,im.size)
+    for i in range(frames):
+        cell=im.crop((i*w,0,(i+1)*w,im.height)).getchannel('A').point(lambda a:255 if a>=128 else 0)
+        bb=cell.getbbox(); assert bb is not None, (n,i)
+        assert abs((bb[3]-1)-anchor)<=1, (n,i,bb,anchor)
+    print('PASS',n,'frame baselines')

diff --git a/08-antique-night/README.md b/08-antique-night/README.md
@@ -12,9 +12,9 @@
 
 ## 流程
 
-在店里接待客人并检查青花瓶，进入瓶中山水，寻找三片青花碎片，解除画师护罩。击败画师回到店内，接近青花瓶并对准修复进度条，完成三次修复。到达落脚点后生命会恢复，死亡重试保留实际收集过的碎片。收集碎片、到达落脚点及修复进度会保存在当前浏览器，标题画面可继续；浏览器禁用或清理站点数据时无法保留。
+在店里接待客人并检查青花瓶，进入瓶中山水，在第一处断桥前站稳并长按 E / 手柄 A 修复桥面，随后寻找三片青花碎片，解除画师护罩。击败画师回到店内，接近青花瓶并对准修复进度条，完成三次修复。到达落脚点后生命会恢复，死亡重试保留实际收集过的碎片。收集碎片、到达落脚点及修复进度会保存在当前浏览器，标题画面可继续；浏览器禁用或清理站点数据时无法保留。
 
-青花鱼会在空中巡游。瓷兽扑击前会预警；画师攻击也有预警，第二阶段会交替施放墨弹和地面笔划。手柄键位按标准映射，不同设备可能有差异。
+画中青花鱼会悬空巡游，预警后发射气泡；普通瓷兽扑击前会预警，金边瓷兽的护甲需要木槌重击两次才能打破；画师攻击也有预警，第二阶段会交替施放墨弹和地面笔划。手柄键位按标准映射，不同设备可能有差异。
 
 ## 目前状态
 
@@ -28,6 +28,7 @@ node tests/combat.test.cjs
 node tests/player-combat.test.cjs
 node tests/save.test.cjs
 node tests/audio.test.cjs
+python tests/anchors.test.py  # 需要 Pillow，用于素材脚底锚点检查
 ```
 
 测试使用模拟输入，不代替实机画面与实体手柄测试。
